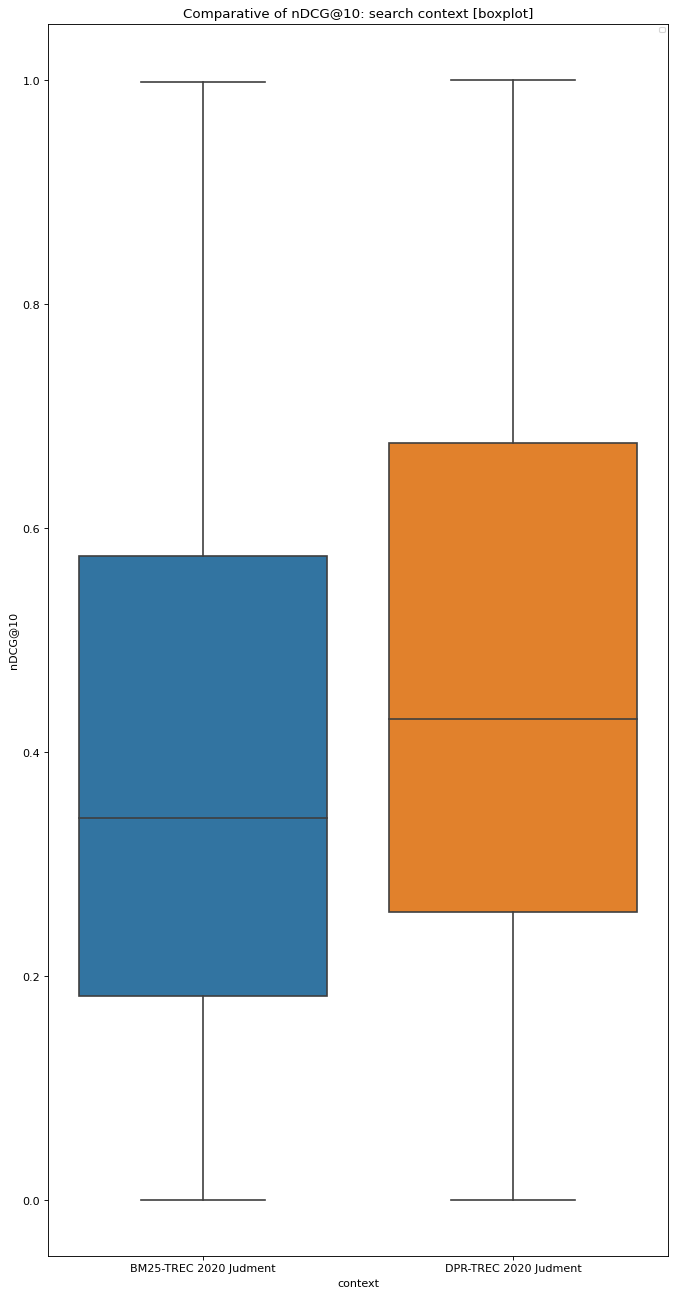
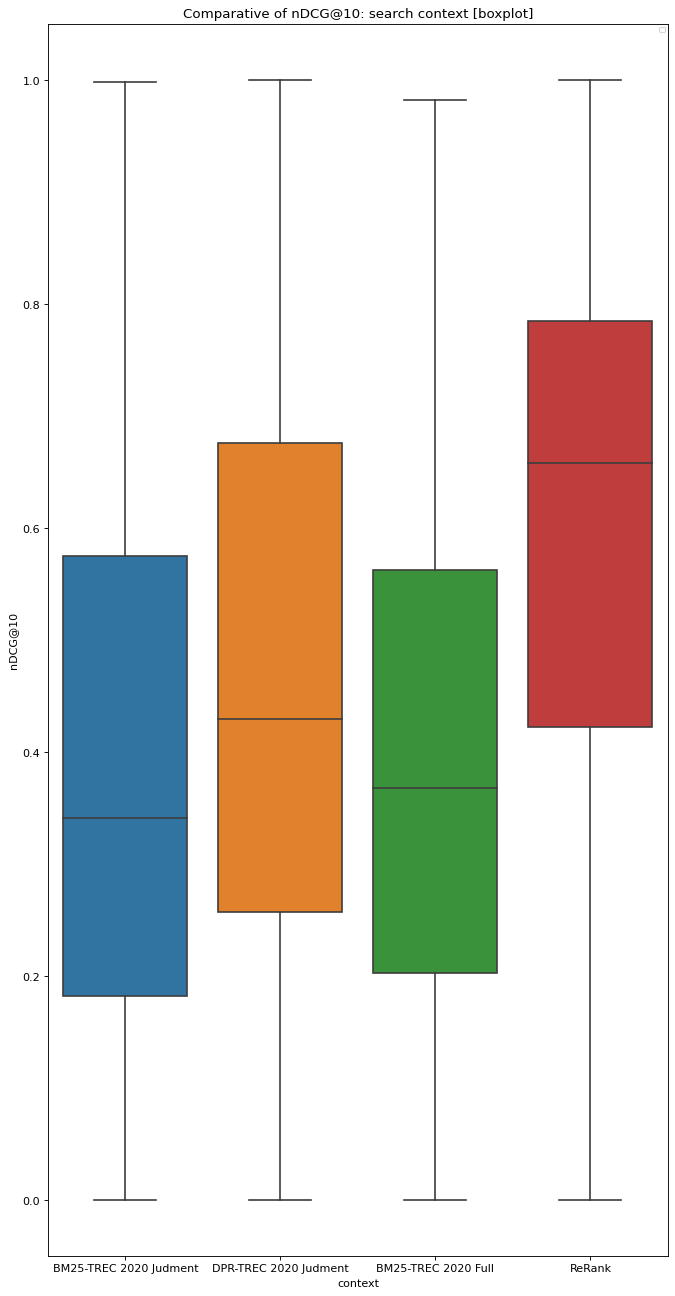
calculating rerank in trec2020 with judment - partial data

diff --git a/code/local/util_metric_calcutation.py b/code/local/util_metric_calcutation.py
@@ -2,19 +2,36 @@
 Utility functions for calculatint Informational Retrieval Metrics
 """
 import math
+import time
 import util_elastic_search as util_es
 import util_retriever as util_ret
 import util_bd_dataframe as util_bd_pandas
+from pygaggle.rerank.base import Query
+from pygaggle.rerank.base import hits_to_texts
+from pygaggle.rerank.transformer import MonoT5
+
+class class_docto_encontrado(object):
+
+    def __init__(self, id, text:str):
+        self._id = id
+        self._text = text
+
+    @property
+    def text(self):
+        return self._text
+    @property
+    def id(self):
+        return self._id
 
 def calculate_metric_in_es(parm_type_retrieval:str):
     """ Calcuate metrics in base of elastic search 
         Considers search mechanism specified in parm_type_retrieval
 
     Args:
-        parm_type_retrieval (str): dpr x bm25
+        parm_type_retrieval (str): dpr, bm25, rerank
 
     """
-    assert parm_type_retrieval in ("dpr","bm25"), f"parm_type_retrieval: {parm_type_retrieval} expected to be in ('dpr','bm25')"
+    assert parm_type_retrieval in ("dpr","bm25","rerank"), f"parm_type_retrieval: {parm_type_retrieval} expected to be in ('dpr','bm25')"
 
 
     _, dict_val_idcg10 = util_bd_pandas.read_df_original_query()
@@ -25,9 +42,14 @@ def calculate_metric_in_es(parm_type_retrieval:str):
     if parm_type_retrieval == 'bm25':
         retriever = util_ret.init_retriever_es_bm25(doc_store)
         search_context = util_bd_pandas.const_cod_search_context_bm25_trec20_judment        
-    else:
+    elif parm_type_retrieval == 'dpr':
         retriever = util_ret.init_retriever_es_dpr(doc_store)
-        search_context = util_bd_pandas.const_cod_search_context_dpr_trec20_judment        
+        search_context = util_bd_pandas.const_cod_search_context_dpr_trec20_judment     
+    else:   
+        reranker = MonoT5()        
+        retriever = util_ret.init_retriever_es_bm25(doc_store)
+        search_context = 5
+
 
     # Calculate dcg10 and ndcg10 of noisy queries
     for noise_kind in df_noisy_query['cod_noise_kind'].unique():
@@ -37,28 +59,39 @@ def calculate_metric_in_es(parm_type_retrieval:str):
             idcg10 = dict_val_idcg10[cod_original_query]
             query_text = row["text"]
 
+            # retrieve documents
+            if parm_type_retrieval in ('bm25','dpr'):
+                list_docs = retriever.retrieve(query_text, top_k=10)
+            else: # 'rerank'
+                doctos_returned_bm25 = retriever.retrieve(query_text, top_k=100)
+                list_doctos = []
+                for docto in doctos_returned_bm25:
+                    dt = class_docto_encontrado(id=docto.id, text=docto.content)
+                    list_doctos.append(dt)
+                query_busca = Query(query_text)
+                list_docs = reranker.rerank(query_busca, list_doctos)[:10]
 
             # calculating dcg10 for query
             dcg10 = 0
             qtd_judment_assumed_zero_relevance = 0
-            for i, result_busca in enumerate(retriever.retrieve(query_text, top_k=10)):
+            for i, docto_encontrado in enumerate(list_docs):
                 if i >= 10:
                     raise 'Error: more than 10 retrieved!'
-                docid = result_busca.id
-                # print(f'docid retrieved {docid}')
+                docid = docto_encontrado.id
                 if (cod_original_query, docid) not in dict_judment:
-                    print(f'Query and passage_id not in judment:{(cod_original_query, docid)}. Assumed zero relevance. ')
+                    # print(f'Query and passage_id not in judment:{(cod_original_query, docid)}. Assumed zero relevance. ')
                     qtd_judment_assumed_zero_relevance += 1
                 eval = dict_judment.get((cod_original_query, docid), 0)
                 dcg10 += (2**int(eval)-1) / math.log2(i+2)
-                # calculate ndcg10 for query
+
+            # calculate ndcg10 for query
             ndcg10 = dcg10 / idcg10
-            # print(f"query {cod_original_query} has dcg10 {dcg10} ndcg10 {ndcg10} for idcg10 {idcg10} ")
 
-
+            # add values to lists
             calculated_metric['cod_original_query'].append(cod_original_query)
             calculated_metric['dcg10'].append(dcg10)
             calculated_metric['ndcg10'].append(ndcg10)
             calculated_metric['qtd_judment_assumed_zero_relevance'].append(qtd_judment_assumed_zero_relevance)
         util_bd_pandas.save_calculated_metric(calculated_metric, cod_search_context=search_context, cod_noise_kind=noise_kind)    
+        print(f" Done for noise_kind: {noise_kind} em {time.strftime('%Y-%m-%d %H:%M:%S')}")        
 

diff --git a/code/local/gerar_graficos_comparacao.py b/code/local/gerar_graficos_comparacao.py
@@ -9,6 +9,25 @@ import seaborn as sns
 print("oi")
 df_calculated_metric = util_bd_pandas.read_df_calculated_metric_with_label()[['search_context','cod_metric','noise_kind', 'value','qtd_judment_assumed', 'base_record_count','cod_original_query']]
 
+
+
+fig_dims = (10, 20)
+fig, ax = plt.subplots(figsize=fig_dims)
+
+
+
+
+ax = sns.boxplot(x="search_context", y="value", ax=ax, data=df_calculated_metric[df_calculated_metric['cod_metric']=='nDCG@10'])
+#plt.xticks(rotation=0)
+ax.set(ylabel = 'nDCG@10', xlabel = 'context')
+plt.legend(loc='upper right', fontsize=6)
+ax.set_title('Comparative of nDCG@10: search context [boxplot]')
+#plt.tight_layout()
+fig.savefig('graphics\comparative_search_context_boxplot', transparent=False, dpi=80, bbox_inches='tight')
+plt.show()
+exit()
+
+
 #date_time_execution,cod_metric,cod_original_query,cod_noise_kind,cod_search_context,value,qtd_judment_assumed_zero_relevance
 # util_bd_pandas.imprime_resumo_df(df_calculated_metric)
 # grouped.boxplot(subplots=False, rot=45, fontsize=12, figsize=(8,10))
@@ -36,20 +55,6 @@ plt.show()
 exit()
 
 
-fig_dims = (10, 20)
-fig, ax = plt.subplots(figsize=fig_dims)
-
-
-
-
-ax = sns.boxplot(x="search_context", y="value", ax=ax, data=df_calculated_metric[df_calculated_metric['cod_metric']=='nDCG@10'])
-#plt.xticks(rotation=0)
-ax.set(ylabel = 'nDCG@10', xlabel = 'context')
-plt.legend(loc='upper right', fontsize=6)
-ax.set_title('Comparative of nDCG@10: search context [boxplot]')
-#plt.tight_layout()
-fig.savefig('graphics\comparative_search_context_boxplot', transparent=False, dpi=80, bbox_inches='tight')
-plt.show()
 
 df_nDCG[['BM25_nDCG@10', 'Rerank_nDCG@10', 'Dense_nDCG@10']].describe()
 

diff --git a/code/local/calculate_metric_base_passage_with_judment.py b/code/local/calculate_metric_base_passage_with_judment.py
@@ -2,6 +2,7 @@
 import util_metric_calcutation as util_calc
 
 # util_calc.calculate_metric_in_es('bm25')
-util_calc.calculate_metric_in_es('dpr')
+#util_calc.calculate_metric_in_es('dpr')
+util_calc.calculate_metric_in_es('rerank')
 
 
